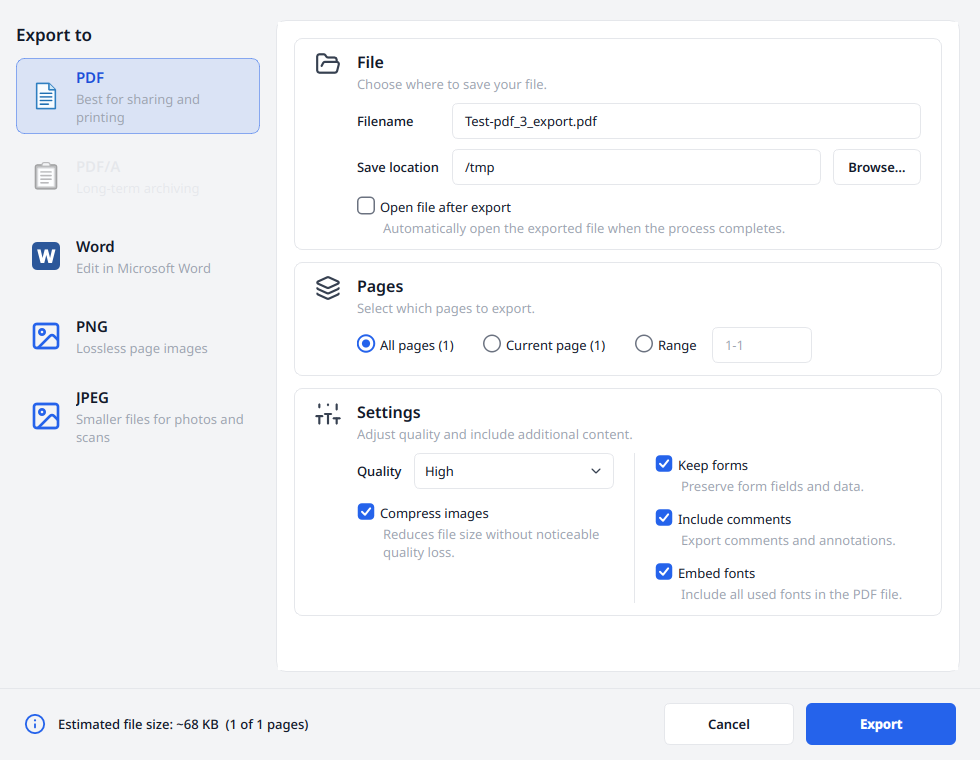
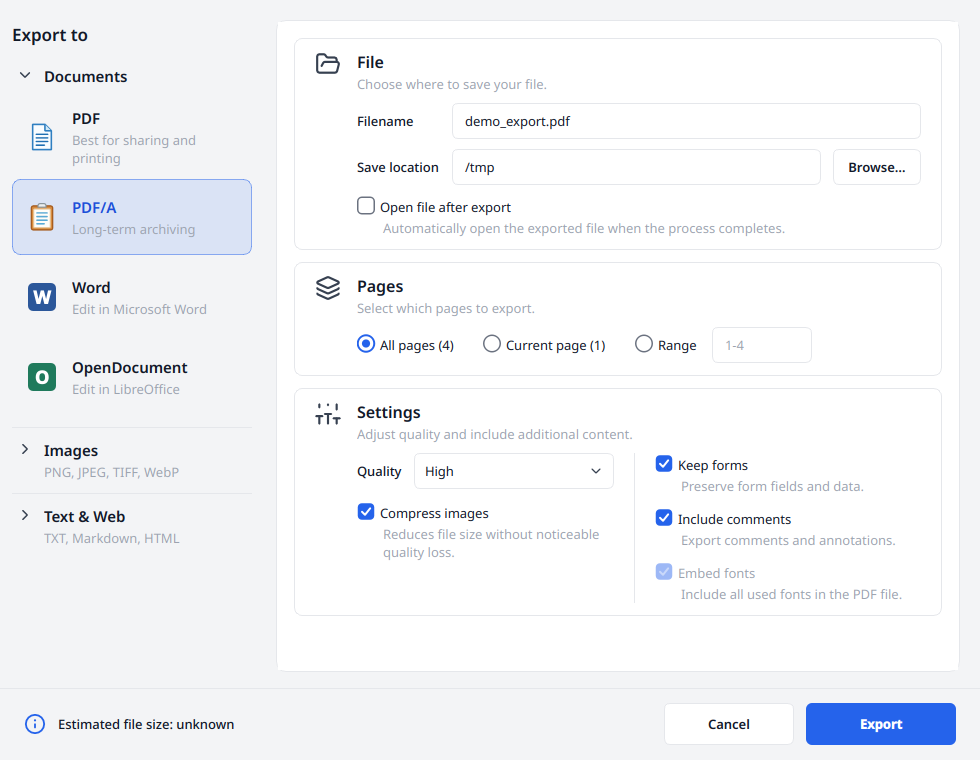
Refresh documentation screenshots for OpenPDF Studio 0.3.7

diff --git a/docs/images/screenshots/README.md b/docs/images/screenshots/README.md
@@ -1,6 +1,7 @@
 # Documentation screenshots
 
-These captures show OpenPDF Studio **0.3.2** on Linux with the English interface.
+The overview, export and About captures show OpenPDF Studio **0.3.7** on Linux
+with the English interface. Other examples were captured in earlier releases.
 Most use the light theme; `overview-dark.png` provides a dark-theme reference.
 Some captures focus on the relevant controls or panel; others show the complete
 window or dialog.
@@ -15,8 +16,7 @@ selection and ordering. The source PDF is not included in this repository.
 The handwritten signature uses the fictional name **Alex Example**. The history
 example contains demonstration notes on the test document. The protection dialog
 uses a masked example password, and the business-license page shows the start
-of an evaluation with an empty key field. The About detail focuses on the
-application name and version.
+of an evaluation with an empty key field. The About page shows the application name and version.
 The digital-signing and print dialogs show the initial state without a
 certificate or system printer configured.
 
@@ -33,7 +33,7 @@ certificate or system printer configured.
 | [Password protection](password-protection.png) | Opening passwords, encryption and the protection dialog |
 | [Handwritten signature](handwritten-signature.png) | Creating and placing a signature appearance |
 | [Digital signature](digital-signature.png) | Certificates, appearance profiles and advanced options |
-| [PDF export](export-pdf.png) | Format, destination, page and content options |
+| [PDF/A export](export-pdf.png) | Format groups, destination, page and content options |
 | [Print preview](print-preview.png) | Preview, paper layout and printer configuration |
 | [First-start usage](first-start-usage.png) | Personal or business declaration after installation |
 | [Business licensing](business-license-settings.png) | Evaluation status and license key entry |

diff --git a/docs/dev/releasing.md b/docs/dev/releasing.md
@@ -120,7 +120,7 @@ export, OCR, signing and printing as included, plus media playback and conversio
 for a full build. Check settings persistence and the portable folder's behavior.
 Confirm optional runtime plugins, language data and license texts are present.
 
-![About page detail showing the application name and version 0.3.2](../images/screenshots/about-version.png)
+![About settings showing the application name and version 0.3.7](../images/screenshots/about-version.png)
 
 *Open Settings → About in the installed artifact and compare its version with
 `version.txt`. This reference shows version 0.3.2.*

diff --git a/docs/user/export.md b/docs/user/export.md
@@ -18,7 +18,7 @@ another format and output options.
 The size shown before export is an estimate. Check the actual file and its
 appearance before sharing it.
 
-![PDF export dialog with format selection on the left and filename, save location, page selection, quality and content options on the right](../images/screenshots/export-pdf.png)
+![Export dialog with PDF/A selected under Documents, Images and Text & Web groups below, and output options on the right](../images/screenshots/export-pdf.png)
 
 *Choose the format on the left, then the destination, pages and output options on the right.*
 

diff --git a/docs/user/troubleshooting.md b/docs/user/troubleshooting.md
@@ -110,7 +110,7 @@ Pending protection passwords are not persisted; reapply protection before saving
 Open Settings → **About** to find the running version and the configuration file
 the application is using. Include the version when reporting a problem.
 
-![About page detail showing the application name and version 0.3.3](../images/screenshots/about-version.png)
+![About settings showing the application name and version 0.3.7](../images/screenshots/about-version.png)
 
 *Check Settings → About for the running version before reporting a problem.*
 
